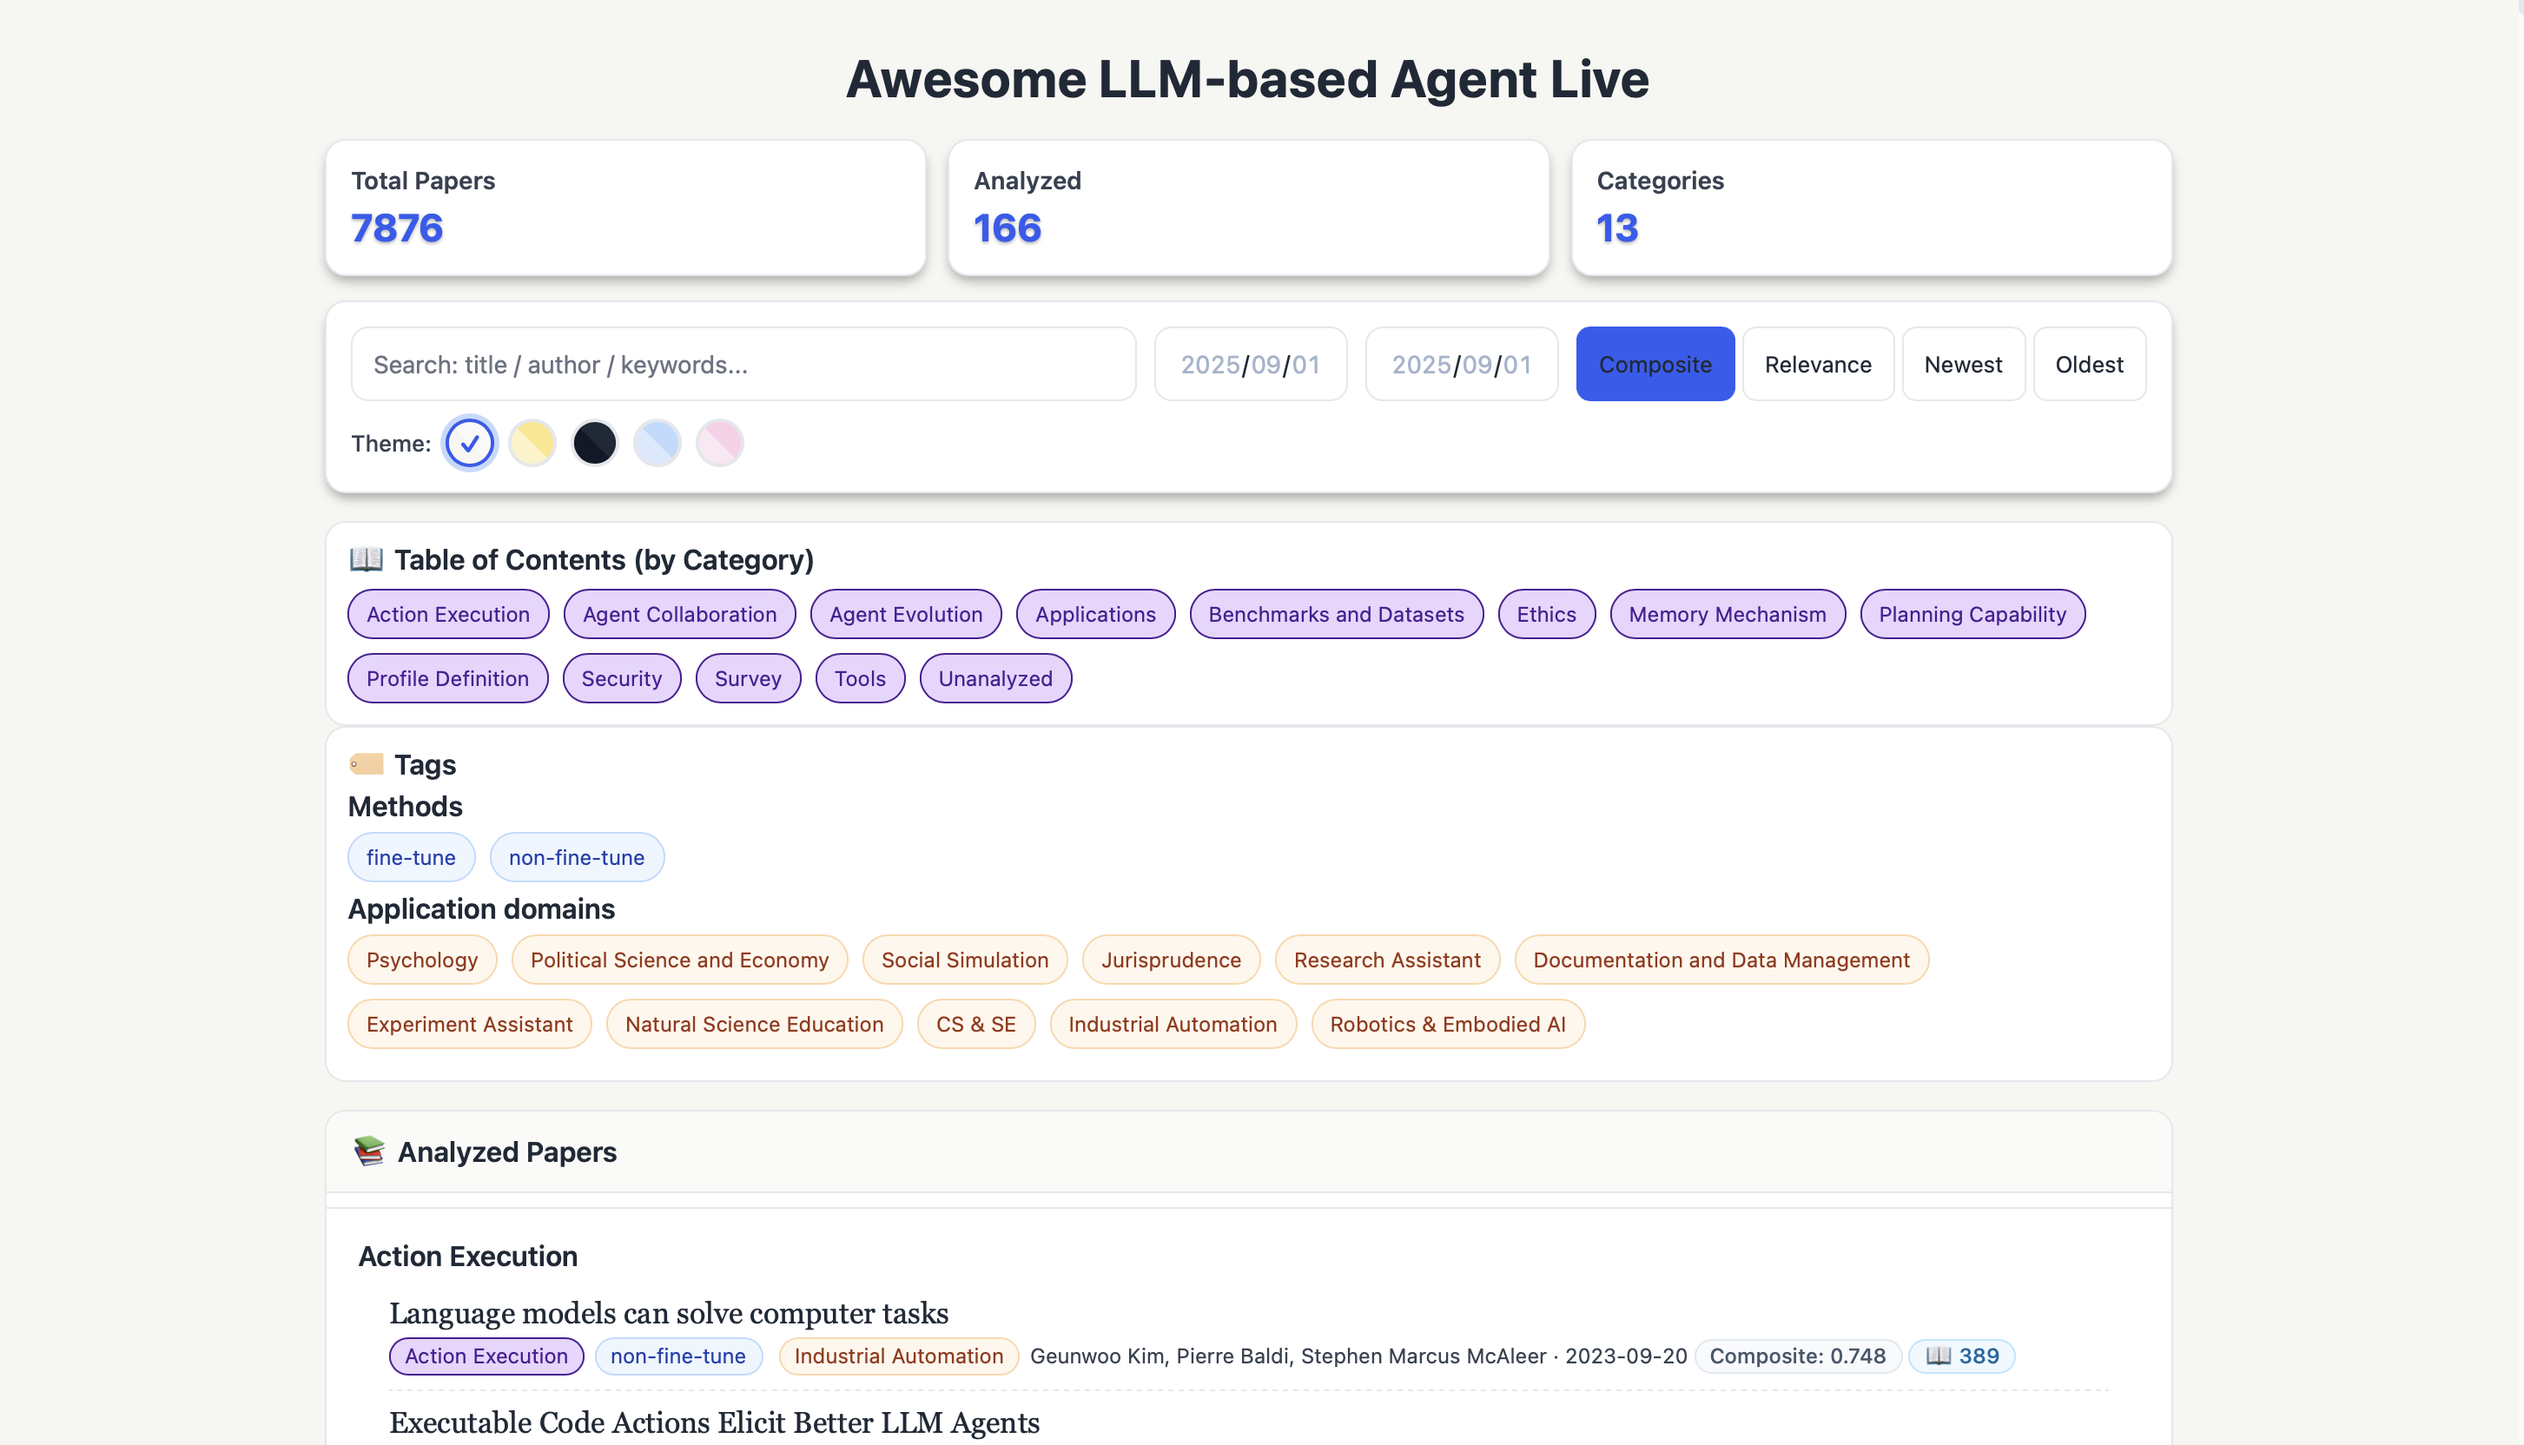
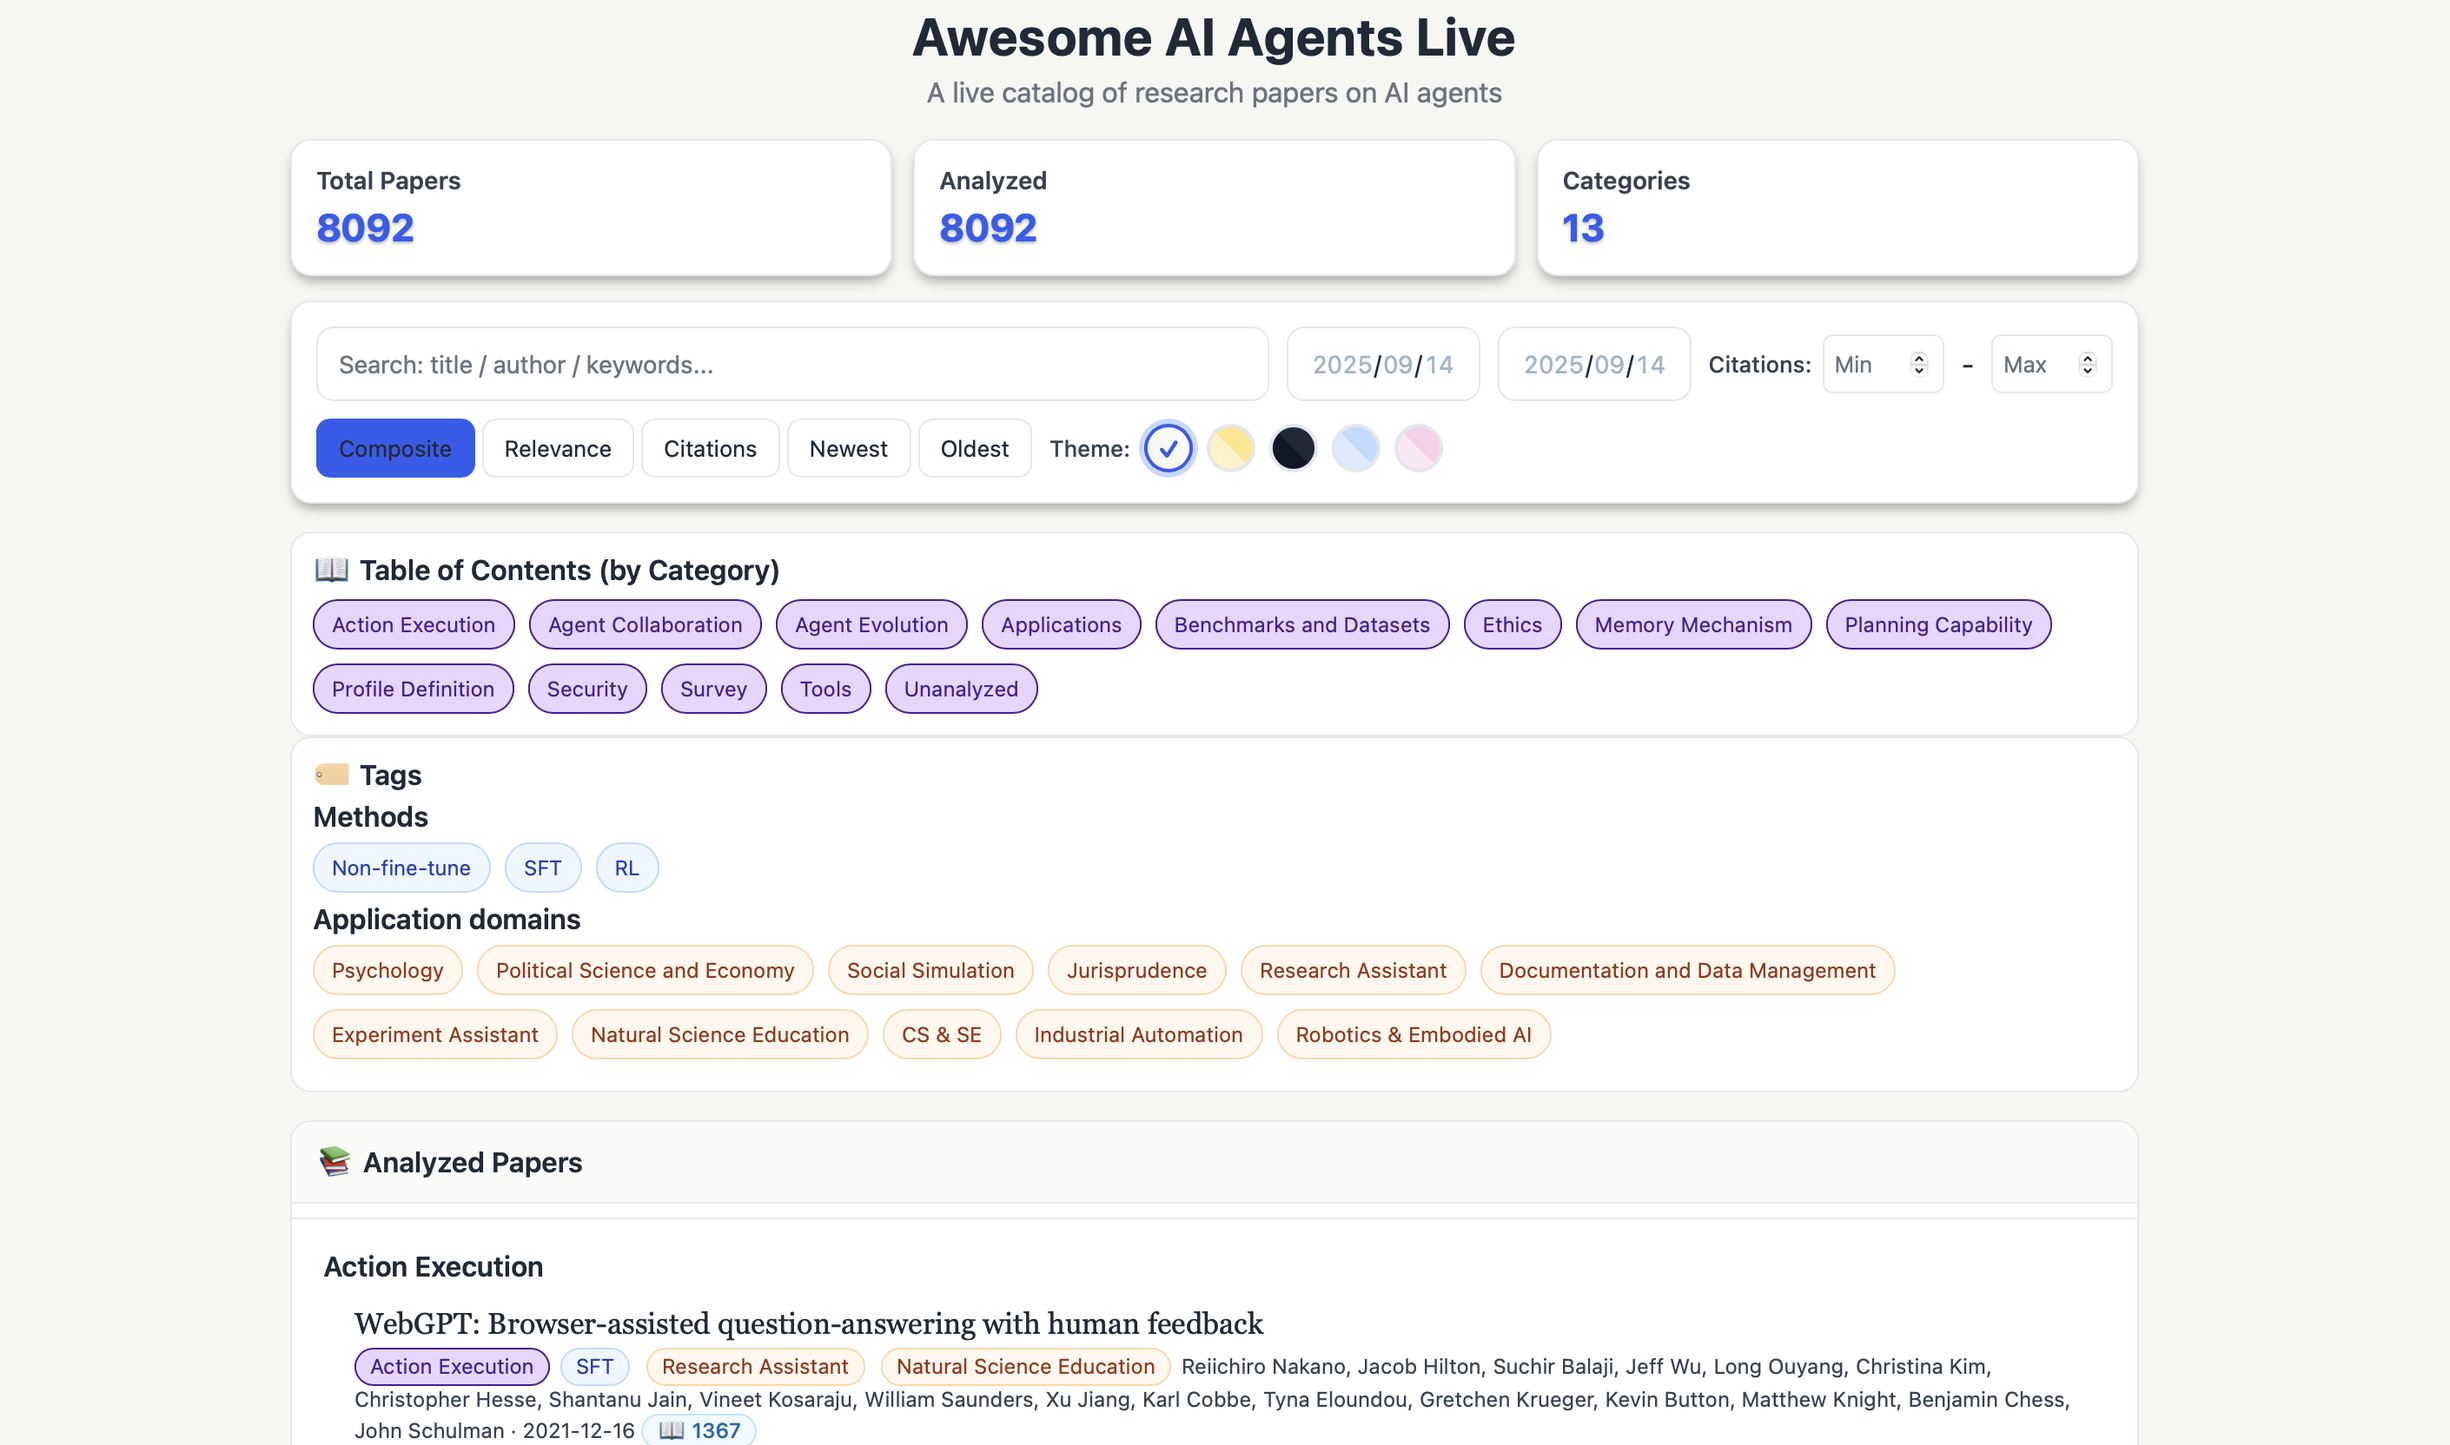
Update docs: 2025-09-13 22:01:32

diff --git a/README.md b/README.md
@@ -1,8 +1,8 @@
-## Awesome AI Agent Live
+## Awesome AI Agents Live
 
-**A live catalog of research papers on ai agents**
+**A live catalog of research papers on AI agents**
 
-**Live catalog:** [https://saifs-aihub.github.io/RoadMap2-LLM-Agents/](https://saifs-aihub.github.io/RoadMap2-LLM-Agents/)
+**Live catalog:** [https://saifs-aihub.github.io/Awesome-AI-Agents-Live/](https://saifs-aihub.github.io/Awesome-AI-Agents-Live/)
 
 A lightweight, continuously-updated catalog of research papers on AI agents. The site aggregates recent work (aiming for daily refresh) and provides a clean reading experience with search, filtering, category navigation, and quick detail views.
 
@@ -14,24 +14,23 @@ Two representative UI snapshots for quick reference.
 ![Detail view](docs/images/detail_view.png)
 
 ### What this project is
-- **Dynamic agent paper browser**: Explore recent agent papers with fast keyword search and simple filters.
+- **Dynamic agent paper browser**: Explore recent AI agent papers with fast keyword search and simple filters.
 - **At-a-glance insights**: Each analyzed paper includes a short summary, key insights, pros/cons, labels, and publication metadata.
 - **Practical navigation**: Switch between list and detail views, jump using the mini-TOC, and sort by relevance, recency, or a composite score.
 - **Regularly updated**: Designed to ingest new papers on a frequent cadence (daily-targeted).
 
 ### Categories and labels
-The category and label schema (e.g., Profile Definition, Memory Mechanism, Planning Capability, Action Execution, Agent Collaboration, Applications, Benchmarks and Datasets, Tools, Security, Ethics, Survey) draws inspiration from recent surveys on LLM-based agents, including:
+The category and label schema (e.g., Profile Definition, Memory Mechanism, Planning Capability, Action Execution, Agent Collaboration, Applications, Benchmarks and Datasets, Tools, Security, Ethics, Survey) draws from recent surveys on LLM-based agents, including:
 - Wang et al., [A survey on large language model based autonomous agents](https://link.springer.com/10.1007/s11704-024-40231-1) (Frontiers of Computer Science, 2024)
-- [A survey on LLM-based multi-agent systems: workflow, infrastructure, and challenges](http://arxiv.org/abs/2503.21460) (arXiv:2503.21460)
+- Luo et al., [A survey on LLM-based multi-agent systems: workflow, infrastructure, and challenges](http://arxiv.org/abs/2503.21460) (arXiv:2503.21460)
 
 ### Audience
 Researchers, engineers, and students tracking the rapid progress of LLM-based agents will find this catalog useful for quick discovery and lightweight triage before deeper reading.
 
 ### Notes
-- This repository focuses on explaining what the catalog is and why it exists. It intentionally avoids code-level details here.
 - The web UI is optimized for readability and quick comparison across many papers.
 - Citation counts displayed in the catalog are sourced via the [Semantic Scholar API](https://www.semanticscholar.org/product/api).
-- Paper summaries are AI-generated (LLM-assisted) and may contain inaccuracies; use discretion and refer to the original papers when needed.
+- Paper summaries are AI-generated and may contain inaccuracies; use discretion and refer to the original papers when needed.
 
 ### License
 This project is licensed under the MIT License. See [LICENSE](LICENSE) for details.
